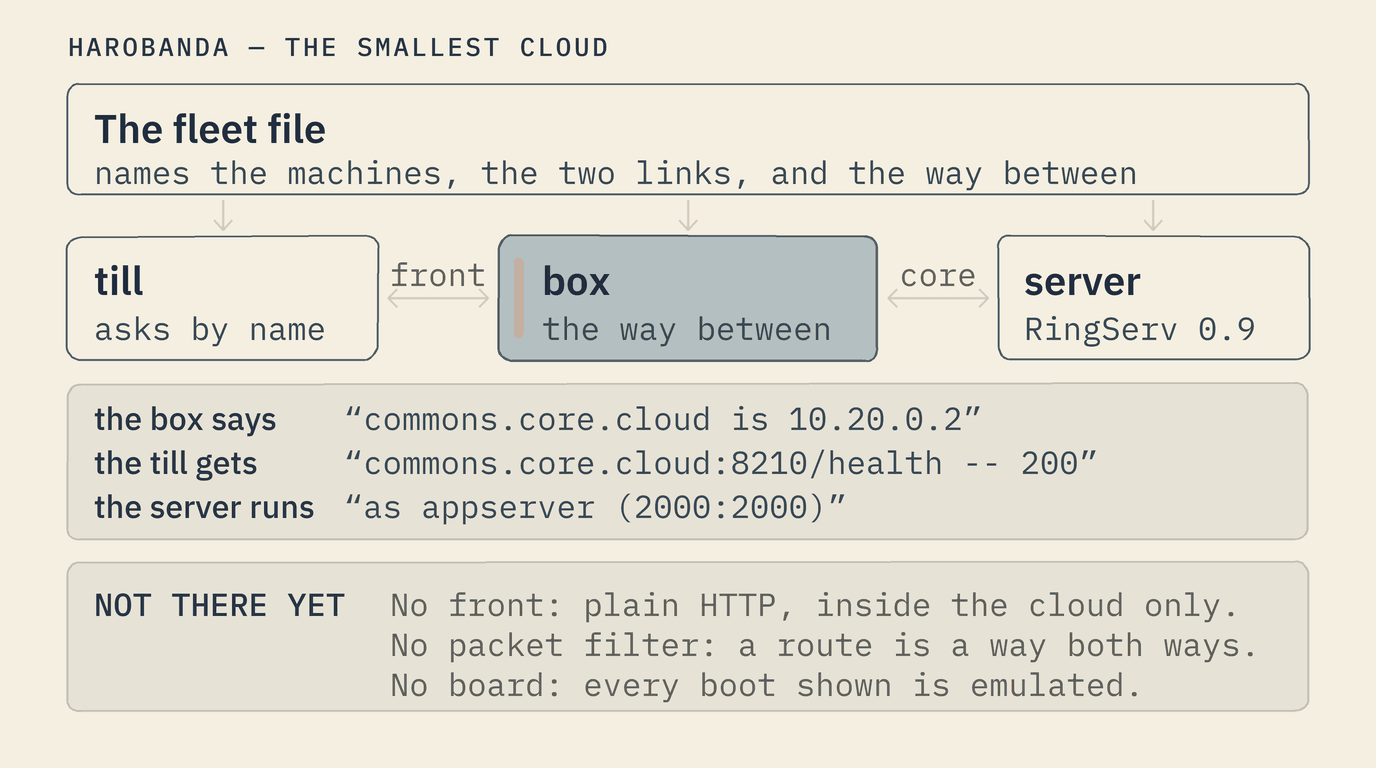
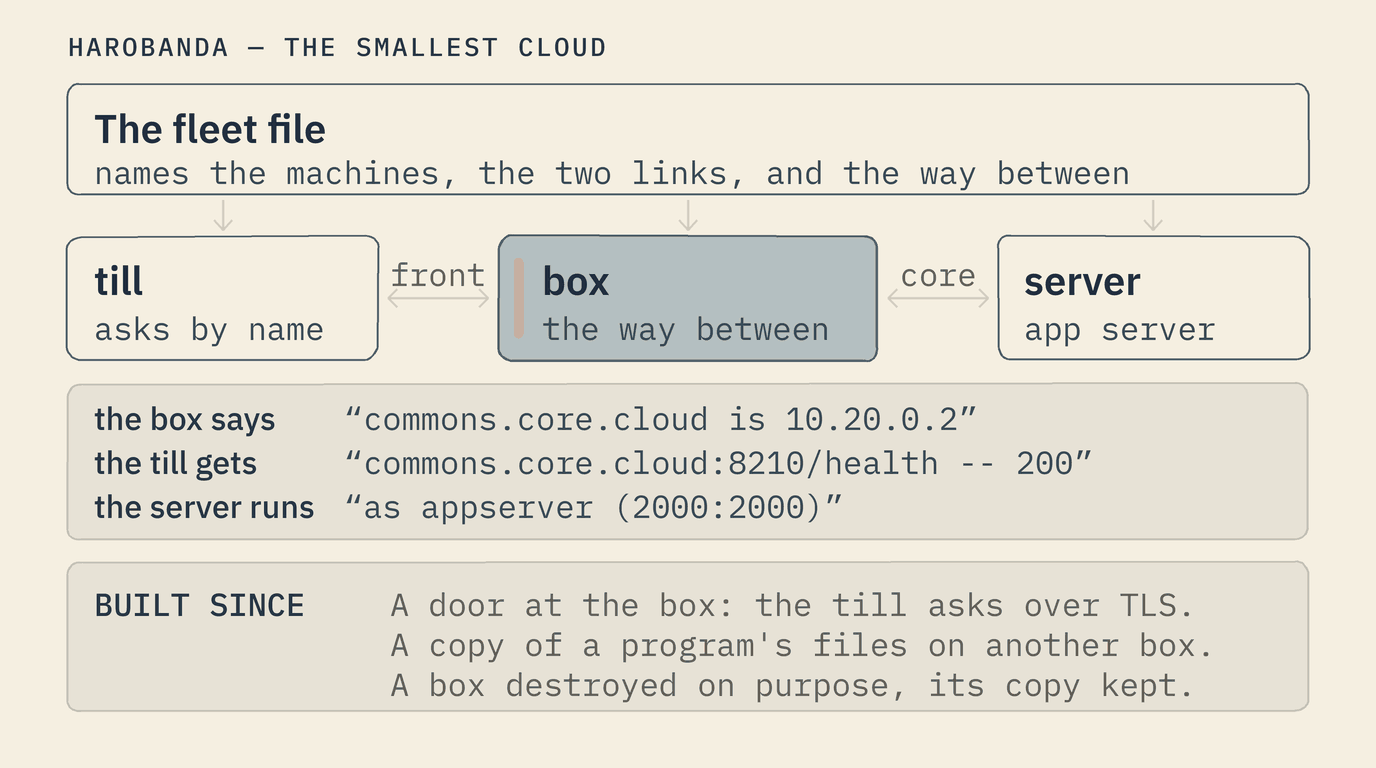
The retired language is named on no public page, and the site's check refuses it (NORING-1)
PRINCIPAL-NORING-01 and its scope (2026-11-10): no README or site page
names the language Softanza was first written in. The cloud's server is
named by its role, the estate's application server; the engine's
surfaces are Haro, Luau, Python, JavaScript and PHP; the edge is
MicroHaro. Diagram 12 (wide and narrow) labels the server "app server",
and its last band, which listed what was not there, now says what was
built since (the door over TLS, a copy on another box, the loss drill).
harb docs --check gains rule 7: the word, whole, and the three products
named for it, refused on every public page, with a unit test.

The licence reads 2020-2026 (PRINCIPAL-COPYRIGHTYEARS-01).

diff --git a/site/cloud.html b/site/cloud.html
@@ -51,13 +51,12 @@
 
   <section class="wrap block">
     <div class="figure">
-      <img class="diagram-img wide-only" loading="lazy" src="harobanda-diagram-12.png" alt="The smallest cloud. A fleet file at the top names three machines and the two links between them. A till, on the front link, asks for a server by name. A box, drawn with the one orange mark, has a foot on both links and is the way between them. A server, RingServ 0.9, is on the core link. Beneath them, what the machines said, quoted from the pinned boot: the box says commons.core.cloud is 10.20.0.2; the till gets commons.core.cloud:8210/health -- 200; the server runs as appserver (2000:2000). A last band lists what is not there yet: no front, only plain HTTP inside the cloud; no packet filter, a route is a way both ways; no board, every boot shown is emulated." width="1376" height="768">
-      <img class="diagram-img narrow-only" loading="lazy" src="harobanda-diagram-12-narrow.png" alt="The smallest cloud, as a column. A fleet file names three machines and the two links between them. A till asks for a server by name; the front link joins it to a box, drawn with the one orange mark, which is the way between; the core link joins the box to a server, RingServ 0.9. Then what the machines said, quoted from the pinned boot: the box says commons.core.cloud is 10.20.0.2; the till gets commons.core.cloud:8210/health -- 200; the server runs as appserver (2000:2000). Last, what is not there yet: no front, only plain HTTP inside the cloud; no packet filter, a route is a way both ways; no board, every boot shown is emulated." width="640" height="1846">
+      <img class="diagram-img wide-only" loading="lazy" src="harobanda-diagram-12.png" alt="The smallest cloud. A fleet file at the top names three machines and the two links between them. A till, on the front link, asks for a server by name. A box, drawn with the one orange mark, has a foot on both links and is the way between them. An app server is on the core link. Beneath them, what the machines said, quoted from the pinned boot: the box says commons.core.cloud is 10.20.0.2; the till gets commons.core.cloud:8210/health -- 200; the server runs as appserver (2000:2000). A last band lists what was built since: a door at the box, where the till asks over TLS; a copy of a program's files on another box; and a box destroyed on purpose, its copy kept." width="1376" height="768">
+      <img class="diagram-img narrow-only" loading="lazy" src="harobanda-diagram-12-narrow.png" alt="The smallest cloud, as a column. A fleet file names three machines and the two links between them. A till asks for a server by name; the front link joins it to a box, drawn with the one orange mark, which is the way between; the core link joins the box to an app server. Then what the machines said, quoted from the pinned boot: the box says commons.core.cloud is 10.20.0.2; the till gets commons.core.cloud:8210/health -- 200; the server runs as appserver (2000:2000). Last, what was built since: a door at the box, where the till asks over TLS; a copy of a program's files on another box; and a box destroyed on purpose, its copy kept." width="640" height="1846">
     </div>
     <div class="prose stack-gap">
       <p>This is the smallest cloud there is: three machines on two networks, each booted from its own file in an emulator, and a fleet file that names them. The till, a shop's counter device and here simply the machine that asks, is on the front network, and the server is on the core network. The box has a foot on each, and the fleet file says it is the one machine that is the way between them. The till asks the box for <code>commons.core.cloud</code>, is told <code>10.20.0.2</code>, and reaches the server, which answers its health check.</p>
-      <p>The server is <a href="https://mayouni.github.io/ringserv/" target="_blank" rel="noopener noreferrer">RingServ</a> 0.9, built from its own source at a pinned version, and it stands in for a customer's server. It runs as a user of its own, not as root, in directories only that user may write.</p>
-      <p>RingServ is a server for Ring apps and web services. It will be replaced by HaroServ after the Haro language replaces Ring in the Softanza Project.</p>
+      <p>The server is the Softanza estate's application server, built from its own source at a pinned version, and it stands in for a customer's server. It runs as a user of its own, not as root, in directories only that user may write.</p>
     </div>
   </section>
 
@@ -76,7 +75,7 @@ box: boot: forward -- between front and core: a packet that arrives on one may l
 box: boot: names front -- commons.core.cloud is <span class="k">10.20.0.2</span>, through this machine
 
 <span class="d"># the server, behind the box</span>
-core: boot: state -- ringserv owns /run/ringserv and /data/ringserv as <span class="k">appserver (2000:2000)</span>; each made, then read back as that identity's, mode 0700
+core: boot: egress core -- 192.168.20.0/24 and nowhere else: <span class="k">no default route</span>
 
 <span class="d"># the till, asking by name</span>
 till: ask commons.core.cloud -- 10.20.0.2 (from 192.168.20.1)

diff --git a/site/build.html b/site/build.html
@@ -89,11 +89,11 @@
     <p class="prose" style="margin-bottom:16px;color:var(--muted);font-size:18px;line-height:1.6;">If you would rather not assemble a stack, the <b style="color:var(--ink)">Haro family</b> is a coherent set of open tools, each at its own stage (the tags below say which) — and the answer to “what web server, what app server, what agentic server”. It is an option on top of the floor, never a condition of standing on it.</p>
     <div class="langs" style="margin-bottom:18px;">
       <span class="lbl">one engine, five language surfaces:</span>
-      <span class="lang">Luau</span><span class="lang">Ring</span><span class="lang">Python</span><span class="lang">JavaScript</span><span class="lang">PHP</span>
+      <span class="lang">Haro</span><span class="lang">Luau</span><span class="lang">Python</span><span class="lang">JavaScript</span><span class="lang">PHP</span>
     </div>
     <div class="fam" style="margin-bottom:clamp(20px,2.6vw,26px)">
-      <div class="fam-row"><span class="nm">Haro</span><span class="rl"><b>The polyglot engine.</b> One VM, compiler and runtime behind several language surfaces — Luau, Ring, Python, JavaScript, PHP — so a team writes in the language it already knows, and it all runs on the same engine. Luau and Ring run today.</span><span class="stage now">Luau &amp; Ring today</span></div>
-      <div class="fam-row"><span class="nm">HaroServ</span><span class="rl"><b>The web and agentic server.</b> Hosts your web services and your agents alike — declared services, an embedded database, local-first sync — in one self-contained program. Version&nbsp;0.9: ready to use, not finished.</span><span class="stage now">usable today</span></div>
+      <div class="fam-row"><span class="nm">Haro</span><span class="rl"><b>The polyglot engine.</b> One VM, compiler and runtime behind several language surfaces — its own Haro, Luau, Python, JavaScript, PHP — so a team writes in the language it already knows, and it all runs on the same engine. Haro and Luau run today.</span><span class="stage now">Haro &amp; Luau today</span></div>
+      <div class="fam-row"><span class="nm">HaroServ</span><span class="rl"><b>The web and agentic server.</b> Hosts your web services and your agents alike — declared services, an embedded database, local-first sync — in one self-contained program. Version&nbsp;0.9, ready to use.</span><span class="stage now">usable today</span></div>
       <div class="fam-row"><span class="nm">HaroScript</span><span class="rl"><b>Mobile apps and local pages.</b> Hy-native mobile apps (hybrid + native) and local-first web pages from one codebase, reached by a link or a QR. Version&nbsp;0.9: complete in function, already carrying real work.</span><span class="stage now">usable today</span></div>
       <div class="fam-row"><span class="nm">MicroHaro</span><span class="rl"><b>IoT and the edge.</b> The same declaration projected down to a microcontroller — sensors and small devices. The desktop runtime works today with simulated devices; the Raspberry Pi tier is underway.</span><span class="stage prog">underway</span></div>
     </div>

diff --git a/site/status.html b/site/status.html
@@ -55,7 +55,7 @@
         <li><b>It is a working system, and a young one.</b> Declared machines boot and judge themselves on an emulated PC today. The first iteration of the Cousbox restaurant platform is delivered and its box is the first Harobanda target; the Diko engagement is won and is in its study phase.</li>
         <li><b>The kernel underneath is borrowed on purpose.</b> It is the same long-term-support Linux that Ubuntu, Red Hat and the major distributions ship — its source fixed by a fingerprint, so any change to it would show, and built by your own compiler — and a board's firmware is the supplier's, fixed by fingerprint too. Borrowed is not the same as withdrawable; that distinction is the whole point.</li>
         <li><b>One binary declares, judges and runs a machine.</b> Declaring, judging and emulating a machine need only the <code>harb</code> binary, which is also the machine's first program; a flashable image adds a standard kernel build, from source the project keeps in its own mirror.</li>
-        <li><b>The application layer is further along than the machine.</b> HaroServ and HaroScript are at version&nbsp;0.9 and ready to use, and MicroHaro is underway; today programs run through the engine's Luau and Ring surfaces, with Python, JavaScript and PHP as the surfaces broaden. The Softanza foundation and its intelligence layer are in active development.</li>
+        <li><b>The application layer is further along than the machine.</b> HaroServ and HaroScript are at version&nbsp;0.9 and ready to use, and MicroHaro is underway; today programs run through the engine's Haro and Luau surfaces, with Python, JavaScript and PHP as the surfaces broaden. The Softanza foundation and its intelligence layer are in active development.</li>
         <li><b>The agent guarantees are the floor's, and they are real.</b> The walls around each program, the per-program budgets, a boundary of routes declared in the file, the signed record of every boot and the judged trial exist today, for every program a machine runs, an agent included.</li>
         <li><b>The enterprise answers rest on the design.</b> The security posture is a property of the design and holds today (<a href="security.html">what it rests on</a>, and <a href="security.html#rests">the checks beneath it</a>); a fleet's records, judged trials and signed boots are built, and standard sign-in and integration connectors are the committed direction. The cloud's steps are built and judged on emulated machines (<a href="cloud-status.html">where the cloud stands</a>).</li>
         <li><b>It will never be a product you buy from a vendor</b> — because a vendor inside the system is the one thing it refuses. It is the design.</li>

diff --git a/site/cloud-status.html b/site/cloud-status.html
@@ -85,7 +85,7 @@
     </div>
     <ul class="honest two">
       <li><b>Every boot is held to its kept transcript.</b> A step is built when its machines boot on an emulated PC, say what they did, and match, line for line, what they said before; the latency a program measures there is the emulator's, and the transcript keeps its shape and no number.</li>
-      <li><b>A real server stands in the cloud.</b> RingServ, the estate's application server, is placed by a pack on a machine of its own and reached through the box that joins two networks.</li>
+      <li><b>A real server stands in the cloud.</b> The estate's application server is placed by a pack on a machine of its own and reached through the box that joins two networks.</li>
       <li><b>Time has one source, and every statement is checked.</b> One authority per fleet signs that an entry existed no later than a time it read from its own clock, and anyone holding the fleet file checks it.</li>
       <li><b>A floor for real-time systems.</b> A real-time system is built on it: a program is given its time and keeps its own loop, one core per program, and what it starts runs unreserved.</li>
       <li><b>No kernel's word is taken on trust.</b> Five numbers copied from the kernel's source were wrong when the kernel was asked, and each was caught by a line the machine prints to be read back.</li>

diff --git a/site/diagrams/diagram12.py b/site/diagrams/diagram12.py
@@ -39,15 +39,17 @@ FILE = ("The fleet file", "names the machines, the two links, and the way betwee
 # (title, what it does, which network it is on)
 MACHINES = [("till", "asks by name"),
             ("box", "the way between"),
-            ("server", "RingServ 0.9")]
+            ("server", "app server")]
 LINKS = ["front", "core"]
 # (who, the machine's own words), in reading order
 SAID = [("the box says", "commons.core.cloud is 10.20.0.2"),
         ("the till gets", "commons.core.cloud:8210/health -- 200"),
         ("the server runs", "as appserver (2000:2000)")]
-NOT_YET = ("NOT THERE YET", ["No front: plain HTTP, inside the cloud only.",
-                             "No packet filter: a route is a way both ways.",
-                             "No board: every boot shown is emulated."])
+# the last band says what was built on this cloud after the picture's first drawing (AFFIRM-1: a public picture
+# lists no lack; until 2026-11-12 it was "NOT THERE YET")
+NOT_YET = ("BUILT SINCE", ["A door at the box: the till asks over TLS.",
+                           "A copy of a program's files on another box.",
+                           "A box destroyed on purpose, its copy kept."])
 
 # every quotation is the machines', verbatim, or nothing is drawn
 pinned = PINNED.read_text(encoding="utf-8")

diff --git a/site/diagrams/narrow12.py b/site/diagrams/narrow12.py
@@ -124,14 +124,14 @@ c.box("till", "asks by name", "plain")
 c.link("the front link")
 c.box("box", "the way between", "machine", accent=True)
 c.link("the core link")
-c.box("server", "RingServ 0.9", "plain")
+c.box("server", "app server", "plain")
 c.gap(20)
 
 c.kicker("WHAT THE MACHINES SAID", NEW_LINE)
 c.said(SAID)
 c.gap(22)
 
-c.strip_items("NOT THERE YET", ["No front: plain HTTP, inside the cloud only.",
-                                "No packet filter: a route is a way both ways.",
-                                "No board: every boot shown is emulated."])
+c.strip_items("BUILT SINCE", ["A door at the box: the till asks over TLS.",
+                              "A copy of a program's files on another box.",
+                              "A box destroyed on purpose, its copy kept."])
 c.render("harobanda-diagram-12-narrow.png")

diff --git a/README.md b/README.md
@@ -407,7 +407,7 @@ same for all three.
 | profile | the device | what runs on it | state |
 |---|---|---|---|
 | **hosted** | a PC, a server, a Raspberry Pi | the Linux kernel, a few self-contained programs (no shared libraries to install), and `harb` itself as the first program the kernel starts (PID 1) | **boots** on x86_64 and ARM processors under QEMU, and as a Raspberry Pi 4 image; judged |
-| **edge** | a microcontroller: a small chip with no operating system underneath | one program that is the whole device (MicroRing's side of the family) | declared and judged; turned into a MicroRing project |
+| **edge** | a microcontroller: a small chip with no operating system underneath | one program that is the whole device (MicroHaro's side of the family) | declared and judged; turned into a MicroHaro project |
 | **touch** | a tablet | the tablet's own kernel, with the app as the only thing it starts | declared and judged |
 
 ## Where things are
@@ -423,8 +423,8 @@ same for all three.
 | identity: a device's key, and the record it signs | `src/journal.zig` | `machines/qemu_identity.expected` |
 | a fleet: facts about a set, the keys a device used to have, the ways between its links, the door of a link, where its data stays, and which machine keeps a copy of which other's directory | `src/fleet.zig` | `declarative/fleet/`, `experiment/os7_fleet.sh`, `experiment/os8_links.sh` |
 | a machine that is the way between two networks, and the names it answers across them | `src/machine.zig` (`FORWARD`), `src/names.zig`, `src/get.zig` | `machines/qemu_forward.expected`, `machines/cloud_links.expected` |
-| a solution's services, written apart from a machine and placed on one; and the program that says a server is serving | `src/pack.zig`, `src/ready.zig` | `harb court --pack`, `machines/qemu_cloud_ringserv.expected` |
-| a world that runs as an identity, and the directories it owns | `src/machine.zig` (`STATE`), `src/init.zig` | `machines/qemu_cloud_ringserv.expected` (the directory read back from the disk), `machines/qemu_own.expected` (a world asks the kernel what it may write), `experiment/state_probe.sh` |
+| a solution's services, written apart from a machine and placed on one; and the program that says a server is serving | `src/pack.zig`, `src/ready.zig` | `harb court --pack`, the cloud's pinned boot (`machines/qemu_cloud*.expected`) |
+| a world that runs as an identity, and the directories it owns | `src/machine.zig` (`STATE`), `src/init.zig` | the cloud's pinned boot (the directory read back from the disk), `machines/qemu_own.expected` (a world asks the kernel what it may write), `experiment/state_probe.sh` |
 | time: a record dated by an authority's signed word, or said to be undated | `src/timeattest.zig`, `src/timeserve.zig`, `src/timeaudit.zig`, `src/machine.zig` (`CLOCK`, `TIME_FROM`) | `machines/time.expected` (two machines on one wire), `experiment/time_probe.sh`, `experiment/time_scene_probe.sh` |
 | a copy: the files of a world's directory kept on another machine, only if the source's signed list and every digest in it match | `src/mirror.zig`, `src/mirrorserve.zig`, `src/mirroraudit.zig`, `src/machine.zig` (`MIRROR_OF`, `MIRROR_FROM`), `src/fleet.zig` (`MIRROR`) | `machines/mirror.expected` (two machines on one wire, the disks read back), `experiment/mirror_unit.sh`, `experiment/mirror_probe.sh` |
 | the roll call: who has written a record since, read from the records members were brought, against the fleet's keys, its time authority's statements and the roll before | `src/roll.zig` | `machines/roll.expected` (the time seat's arc, rolled over), `experiment/roll_probe.sh` |
@@ -471,8 +471,8 @@ transcript:
   rebuilt card and a stolen one;
 - `bash experiment/os8_links.sh` — three machines on two wires: a till on
   one link reaches a server on the other through a box that is the way
-  between them (the server is RingServ, built from its own source by
-  `experiment/ringserv_build.ps1`);
+  between them (the server is the estate's application server, built from
+  its pinned source as `vendor/PIN.md` says);
 - `bash experiment/os9_cloud.sh` — a real server placed on a declared
   machine and booted, with the program that says it is serving. It runs as an
   identity of its own, and the boot reads its directory back from the disk it
@@ -524,8 +524,8 @@ carries. The ruling that changed it is STZ-OS-RULING-02 in
 
 ## Licence
 
-MIT, © 2026 Mansour Ayouni — the licence the estate's other code already
-carries (stzlib, Ring++, MicroRing, zin). [`LICENSE`](LICENSE) is the
+MIT, © 2020-2026 Mansour Ayouni — the licence the estate's other code
+already carries (stzlib, Haro, MicroHaro, zin). [`LICENSE`](LICENSE) is the
 licence itself, and [`LICENSING.md`](LICENSING.md) says what it covers and
 what it does not: a machine is built from Linux, which is GPL-2.0 and is
 fetched and pinned by digest rather than contained here, so an image that

diff --git a/LICENSING.md b/LICENSING.md
@@ -1,6 +1,6 @@
 # What the licence covers, and what it does not
 
-The licence is [`LICENSE`](LICENSE): MIT, © 2026 Mansour Ayouni. These
+The licence is [`LICENSE`](LICENSE): MIT, © 2020-2026 Mansour Ayouni. These
 notes stood at the end of that file until 2026-09-28, and moved here so
 that the file is the MIT text alone -- which is what lets GitHub
 recognise it as MIT. The terms did not change.
